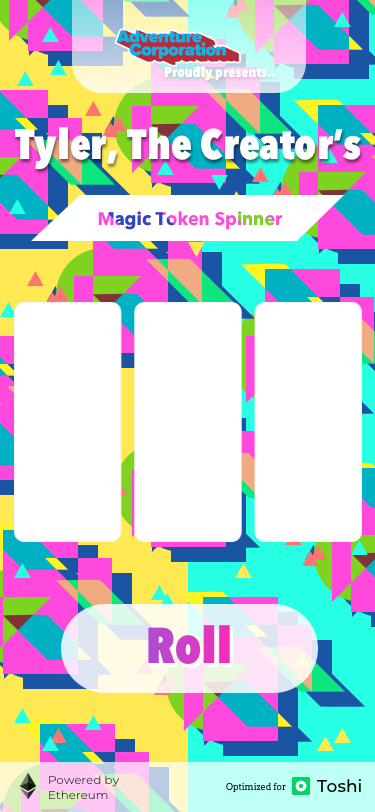
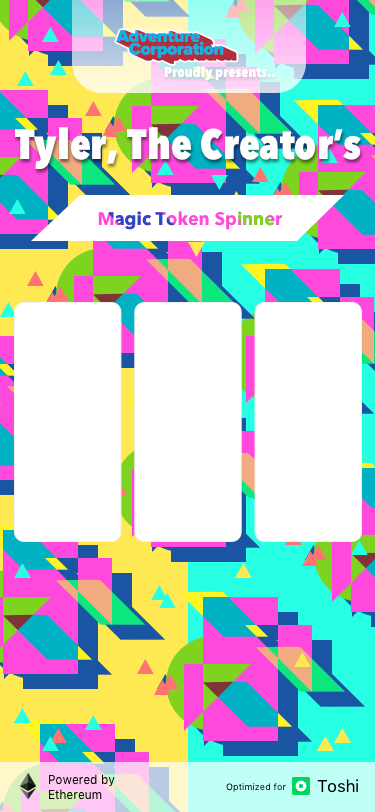
Button Styling

diff --git a/token/docs/index.html b/token/docs/index.html
@@ -9,8 +9,8 @@
     <link rel="stylesheet" href="https://maxcdn.bootstrapcdn.com/bootstrap/4.0.0/css/bootstrap.min.css" integrity="sha384-Gn5384xqQ1aoWXA+058RXPxPg6fy4IWvTNh0E263XmFcJlSAwiGgFAW/dAiS6JXm" crossorigin="anonymous">
     <link rel="stylesheet" href="./spin/dist/jquery.slotmachine.css" type="text/css" media="screen" />
     <link rel="stylesheet" href="https://cdnjs.cloudflare.com/ajax/libs/highlight.js/9.12.0/styles/github.min.css" type="text/css" />
-    <link rel="stylesheet" href="./spin/spin_style.css" type="text/css" media="screen" />
-    <link rel="stylesheet" href="./spin/spin_main.css" type="text/css" media="screen" />
+    <link rel="stylesheet" href="./spin/style.css" type="text/css" media="screen" />
+    <link rel="stylesheet" href="./spin/main.css" type="text/css" media="screen" />
 
     <script src="https://code.jquery.com/jquery-3.2.1.slim.min.js" integrity="sha384-KJ3o2DKtIkvYIK3UENzmM7KCkRr/rE9/Qpg6aAZGJwFDMVNA/GpGFF93hXpG5KkN" crossorigin="anonymous"></script>
     <script src="https://cdnjs.cloudflare.com/ajax/libs/popper.js/1.12.9/umd/popper.min.js" integrity="sha384-ApNbgh9B+Y1QKtv3Rn7W3mgPxhU9K/ScQsAP7hUibX39j7fakFPskvXusvfa0b4Q" crossorigin="anonymous"></script>
@@ -19,7 +19,9 @@
     <script src="https://cdnjs.cloudflare.com/ajax/libs/highlight.js/9.12.0/languages/javascript.min.js"></script>
     <script src="./spin/dist/slotmachine.js"></script>
     <script src="./spin/dist/jquery.slotmachine.js"></script>
-    <script src="./spin/spin_main.js"></script>
+    <script src="./spin/main.js"></script>
+
+    <link rel="stylesheet" href="https://fonts.googleapis.com/css?family=Catamaran">
 
   </head>
 
@@ -27,7 +29,7 @@
 
     <div id="contract">
       <div class="container">
-        <img src='./images/landingPage0.png'>
+        <img src='./images/landingPage.png'>
       </div>
     </div>
 
@@ -60,7 +62,7 @@
       <div class="container">
 
         <div class="tokenButton">
-          <button id="getTokenButton" type="button" class="btn">ROLL!</button>
+          <button id="getTokenButton" type="button" class="btn"><h1>Roll<h1></button>
         </div>
 
         <div class="row">

diff --git a/token/docs/spin/main.css b/token/docs/spin/main.css
@@ -223,14 +223,23 @@ body {
 }
 
 #getTokenButton {
-  background-color: orange;
-  width: 200px;
+  background: linear-gradient(to right, skyblue, yellow);
+  border-radius: 40px;
+  width: 240px;
+  height: 75px;
+  opacity: 0.9;
+}
+
+button h1 {
+  font-size: 55px;
+  color: white;
+  text-shadow: 3px 3px 2px pink;
 }
 
 .tokenButton {
   position: relative;
   margin: auto;
-  top: 800px;
+  top: 675px;
   display: flex;
   align-items: center;
   justify-content: center;
@@ -245,7 +254,8 @@ body {
 }
 
 #getTokenButton:hover {
-  background-color: lightgrey;
+  background: linear-gradient(to left, #f370ff, #4fff57);
+  opacity: 0.9;
 }
 
 #contract .container img {
